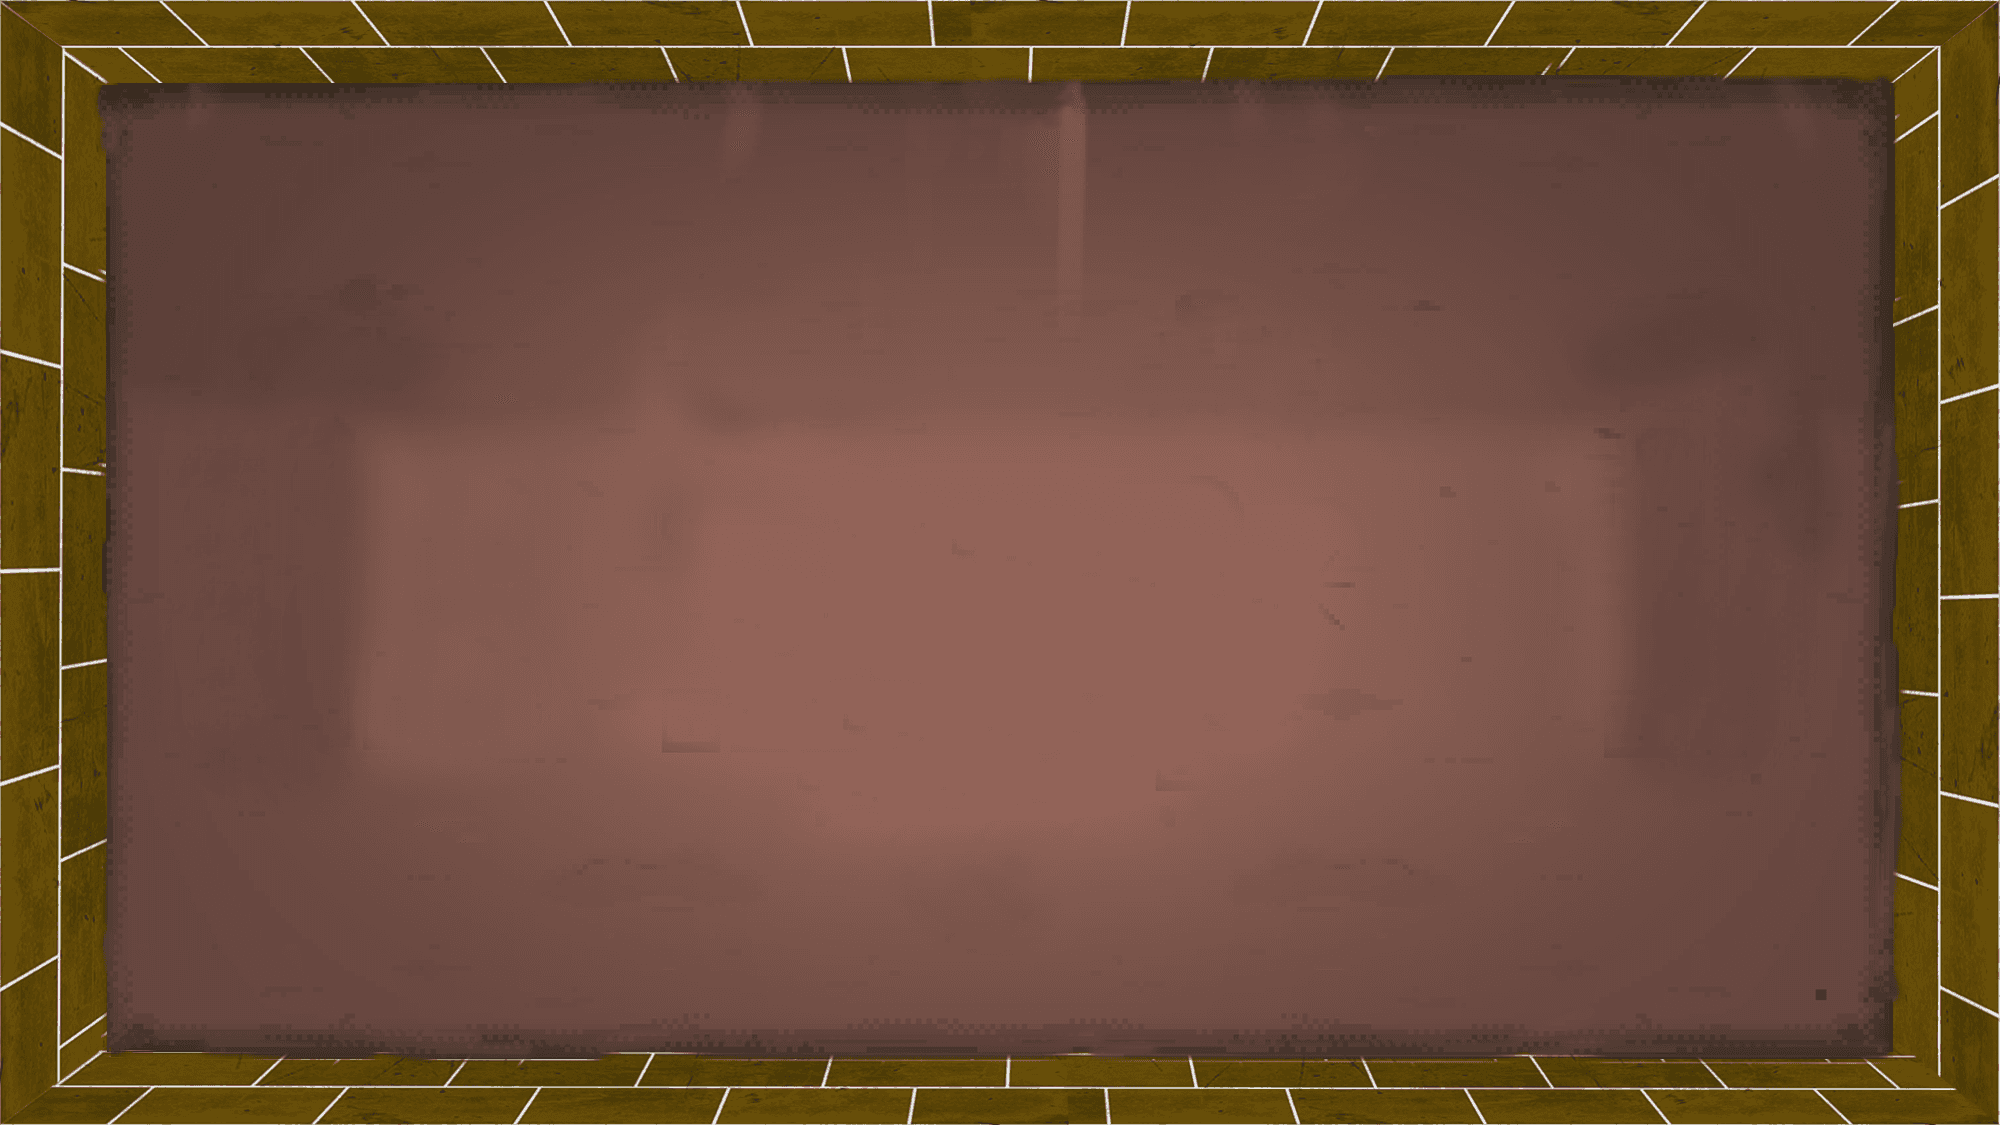
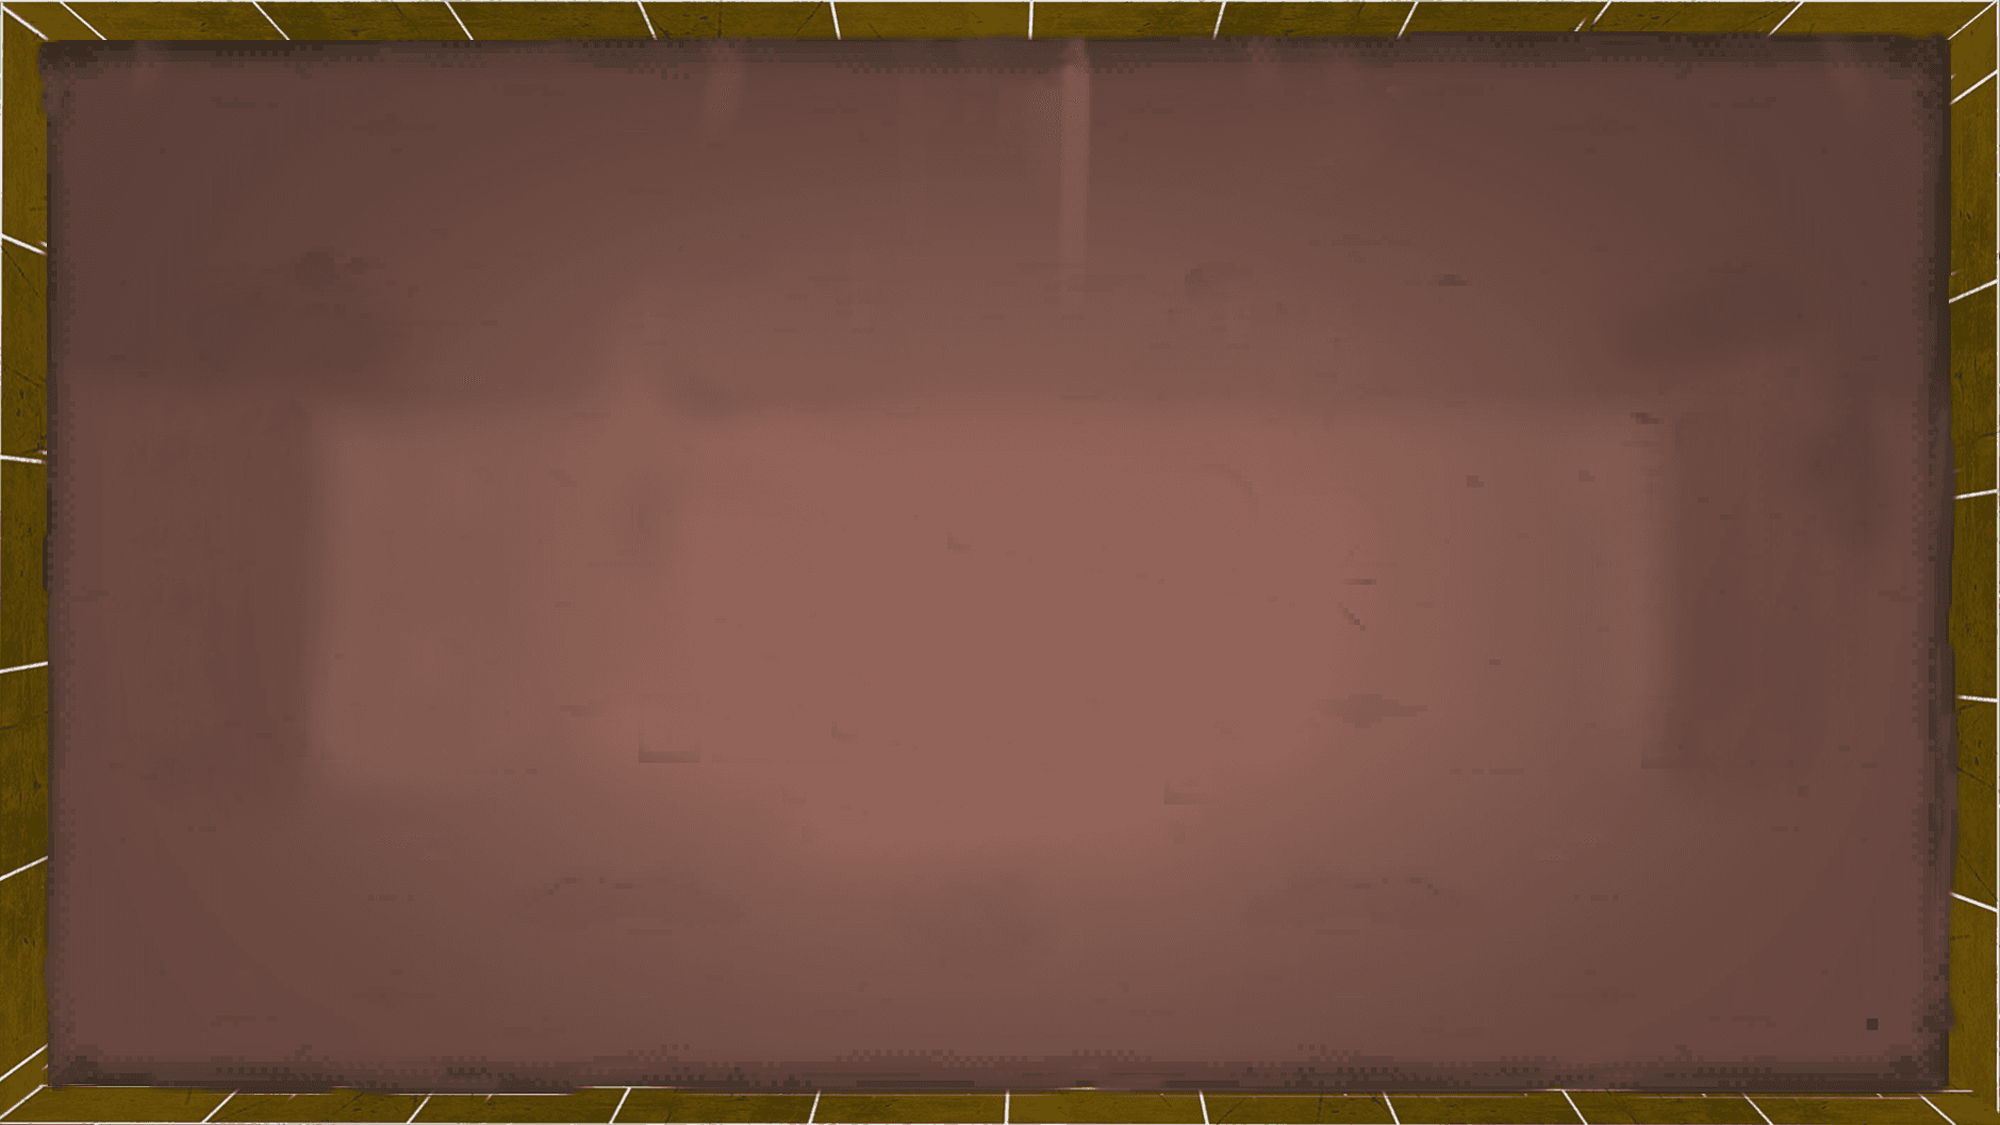
替换背景图片

Changed region(s): [[0.0, 0.0, 1.0, 1.0]]

diff --git a/src/core/entities/myself.ts b/src/core/entities/myself.ts
@@ -2,7 +2,7 @@
  * 玩家
  */
 import { baseSquare } from "./base"
-import { XYtest, adsorbent } from "../math"
+import { XYtest, adsorbent, noOut } from "../math"
 import { config } from "../config"
 import { Enemy } from "./enemy"
 import { onPressKey, player1 } from "../world"
@@ -104,7 +104,7 @@ class player extends baseSquare {
             onrun.c = false
             if (confirm("死了,复活or重开")) {
                 this.HP = player.MaxHP
-                this.MP =player.MaxMP
+                this.MP = player.MaxMP
                 this.alive = true
                 onPressKey.clear()
                 onrun.c = true
@@ -234,32 +234,22 @@ class player extends baseSquare {
         this.vy = vy
         this.x += vx
         this.y += vy
-        if (this.x - this.w / 2 - 108 <= 0) {
-            this.x = this.w / 2 + 108
-        }
-        if (this.x + this.w / 2 + 108 >= 2000) {
-            this.x = 2000 - this.w / 2 - 108
-        }
-        if (this.y - this.h / 2 - 85 <= 0) {
-            this.y = this.h / 2 + 85
-        }
-        if (this.y + this.h / 2 + 75 >= 1125) {
-            this.y = 1125 - this.h / 2 - 70
-        }
-
+        noOut(this)
         this.draw()
     }
     //移动端
     shootAllDirections(weapon: any, vx: number, vy: number) {
         if (this.MP > 0) {
-            var s = new weapon(this.ctx, this.x, this.y, 20, 20)
-            s.initvx = this.vx * player.ShootspeedLose
-            s.initvy = this.vy * player.ShootspeedLose
-            s.speedx = vx
-            s.speedy = vy
-            audio.bui.play()
-            player.shootingList.push(s)
-            console.log(1);
+            // player.throttle(() => {
+                var s = new weapon(this.ctx, this.x, this.y, 20, 20)
+                s.initvx = this.vx * player.ShootspeedLose
+                s.initvy = this.vy * player.ShootspeedLose
+                s.speedx = vx
+                s.speedy = vy
+                audio.bui.play()
+                player.shootingList.push(s)
+            // }, player.ShootInterval / weapon.modify)
+
         } else {//没蓝提醒
             player.throttle(() => {
                 audio.noshoot.play()
@@ -380,31 +370,7 @@ class player extends baseSquare {
                 i.give(player1)
                 audio.get.play()
             })
-            XYtest(Wall.walllist, this).forEach(e => {//检测墙体
-
-
-                if ((Math.abs(e.x - this.x) / (e.y - this.y)) >= e.w / e.h) {
-                    if (this.x > e.x && this.x - this.w / 2 - e.w / 2 < e.x) {
-                        this.x = e.x + e.w / 2 + this.w / 2 + 1
-                        return
-                    }
-                    if (this.x < e.x && this.x + this.w / 2 + e.w / 2 > e.x) {
-                        this.x = e.x - e.w / 2 - this.w / 2 - 1
-                        return
-                    }
-                } else {
-
-                    if (this.y > e.y && this.y - this.h / 2 - e.h / 2 < e.y) {
-                        this.y = e.y + e.h / 2 + this.h / 2 + 1
-                        return
-                    }
-                    if (this.y < e.y && this.y + this.h / 2 + e.h / 2 > e.y) {
-                        this.y = e.y - e.h / 2 - this.h / 2 - 1
-                        return
-                    }
-                }
-
-            })
+            Wall.checkWall(this)
         };
     }
     /**

diff --git a/src/core/entities/enemy.ts b/src/core/entities/enemy.ts
@@ -117,33 +117,9 @@ class Zombie extends baseSquare {
             super.showName(names)
             this.showRealTimeHP()
             this.guardingCircle()
-            this.checkWall()
+            Wall.checkWall(this)
         }
         return this
-    }
-    checkWall() {
-        XYtest(Wall.walllist, this).forEach(e => {
-            if ((Math.abs(e.x - this.x) / (e.y - this.y)) >= e.w / e.h) {
-                if (this.x > e.x && this.x - this.w / 2 - e.w / 2 < e.x) {
-                    this.x = e.x + e.w / 2 + this.w / 2 + 1
-                    return
-                }
-                if (this.x < e.x && this.x + this.w / 2 + e.w / 2 > e.x) {
-                    this.x = e.x - e.w / 2 - this.w / 2 - 1
-                    return
-                }
-            } else {
-
-                if (this.y > e.y && this.y - this.h / 2 - e.h / 2 < e.y) {
-                    this.y = e.y + e.h / 2 + this.h / 2 + 1
-                    return
-                }
-                if (this.y < e.y && this.y + this.h / 2 + e.h / 2 > e.y) {
-                    this.y = e.y - e.h / 2 - this.h / 2 - 1
-                    return
-                }
-            }
-        })
     }
     showRealTimeHP() {
         var HPpercent
@@ -370,8 +346,8 @@ class Enemy {
     static list: Zombie[] = []
     static init() {
         for (let i = 0; i < 5; i++) {
-            let d: Zombie = new Zombie(ctx, 100 + Math.floor(Math.random() * (canvas.width - 300)),
-                100 + Math.floor(Math.random() * (canvas.height - 300)))
+            let d: Zombie = new Zombie(ctx, 100 + Math.floor(Math.random() * (canvas.width )),
+                100 + Math.floor(Math.random() * (canvas.height )))
             Enemy.list.push(d)
         }
 

diff --git a/src/components/ui.vue b/src/components/ui.vue
@@ -20,6 +20,7 @@
                         操作方式：<br>
                         移动： a w s d<br>
                         射击： ↑ ↓ ← →<br>
+                        加速： shift<br>
                         菜单： ESC<br>
                     </div>
                 </div>
@@ -93,7 +94,7 @@
                         <br>
                         <button @click="Enemy.init()">怪物初始化</button>
                         <br>
-                        <br>    
+                        <br>
 
                     </div>
                 </div>
@@ -169,22 +170,22 @@ watch(wz, (e) => {
 
 #menu {
     display: flex;
-    margin: 2em;
-    margin-top: 40px;
+    margin: 1em;
 }
 
 #menu_left {
     display: flex;
     flex-direction: column;
     flex-wrap: nowrap;
-    height: 100%;
-    width: 200px;
-
+    height: 100vh;
+    width: 150px;
+    overflow-y: scroll;
+    overflow-x: hidden;
+    border-right: rgba(224, 223, 223, 0.661) solid 1px;
 }
-
 #menu_left>div {
     border-left: rgba(224, 223, 223, 0) solid 2px;
-    border-right: rgba(224, 223, 223, 0.661) solid .5px;
+
     cursor: pointer;
     padding: 20px 0px 20px;
     width: 100%;
@@ -198,7 +199,7 @@ watch(wz, (e) => {
 }
 
 #menu_content {
-    margin: 5px;
+    /* margin: 5px; */
     height: 100%;
     width: 100%;
     font-style: normal;
@@ -213,11 +214,11 @@ watch(wz, (e) => {
 
 hr {
     border-width: 0.5px;
+    margin: 0;
 }
 
 h2 {
     margin: 0;
-    margin-top: -20px;
     text-align: center;
 }
 

diff --git a/src/core/entities/base.ts b/src/core/entities/base.ts
@@ -1,6 +1,8 @@
 import { canvas } from "../world"
 import { config } from "../config"
 import { imgload } from "../utils/imgloader"
+import { Wall } from "./wall"
+import { noOut } from "../math"
 /**
  * 位置基类
  */
@@ -128,18 +130,7 @@ class baseSquare extends Position {
     move(vx: number, vy: number) {
         this.x += vx
         this.y += vy
-        if (this.x - this.w / 2 - 108 <= 0) {
-            this.x = this.w / 2 + 108
-        }
-        if (this.x + this.w / 2 + 108 >= 2000) {
-            this.x = 2000 - this.w / 2 - 108
-        }
-        if (this.y - this.h / 2 - 85 <= 0) {
-            this.y = this.h / 2 + 85
-        }
-        if (this.y + this.h / 2 + 75 >= 1125) {
-            this.y = 1125 - this.h / 2 - 70
-        }
+        noOut(this)
         this.draw()
     }
     /**
@@ -160,18 +151,7 @@ class baseSquare extends Position {
                 this.x = tox
                 this.y = toy
             }
-            if (this.x - this.w / 2 - 108 <= 0) {
-                this.x = this.w / 2 + 108
-            }
-            if (this.x + this.w / 2 + 108 >= 2000) {
-                this.x = 2000 - this.w / 2 - 108
-            }
-            if (this.y - this.h / 2 - 85 <= 0) {
-                this.y = this.h / 2 + 85
-            }
-            if (this.y + this.h / 2 + 75 >= 1125) {
-                this.y = 1125 - this.h / 2 - 70
-            }
+            noOut(this)
         }
     }
     isAlive() {

diff --git a/src/core/entities/wall.ts b/src/core/entities/wall.ts
@@ -1,6 +1,6 @@
 import { baseSquare } from "./base";
 import { ctx } from '../world'
-import { lineIntersect, P2Pdistance } from "../math";
+import { lineIntersect, P2Pdistance, XYtest } from "../math";
 
 class Wall extends baseSquare {
     v: boolean;
@@ -34,6 +34,33 @@ class Wall extends baseSquare {
     static drawall() {
         Wall.walllist.forEach((e) => {
             e.draw()
+        })
+    }
+    static checkWall<T extends baseSquare>(obj: T) {
+        XYtest(Wall.walllist, obj).forEach(e => {
+            //@ts-ignore
+            if (e.v) {
+                if (obj.x > e.x && obj.x - obj.w / 2 - e.w / 2 < e.x) {
+                    obj.x = e.x + e.w / 2 + obj.w / 2 + 1//右
+                    return
+                }
+                if (obj.x < e.x && obj.x + obj.w / 2 + e.w / 2 > e.x) {
+                    obj.x = e.x - e.w / 2 - obj.w / 2 - 1//左
+                    return
+                }
+            } else {
+                if (obj.y > e.y && obj.y - obj.h / 2 - e.h / 2 < e.y) {
+                    obj.y = e.y + e.h / 2 + obj.h / 2 + 1//下
+                    return
+                }
+                if (obj.y < e.y && obj.y + obj.h / 2 + e.h / 2 > e.y) {
+                    obj.y = e.y - e.h / 2 - obj.h / 2 - 1//上
+                    return
+                }
+            }
+
+
+
         })
     }
     /**

diff --git a/src/core/math.ts b/src/core/math.ts
@@ -145,4 +145,20 @@ function dijkstra(adjMatrix: any[][], start: any, end: any) {
     return [path, distance[end]];
 }
 
-export { Xtest, Ytest, XYtest, YXtest, P2Pdistance, adsorbent, dijkstra, lineIntersect };
+function noOut<T extends baseSquare>(obj: T) {
+    var ho = 30
+    if (obj.x - obj.w / 2 - ho <= 0) {
+        obj.x = obj.w / 2 + ho
+    }
+    if (obj.x + obj.w / 2 + ho >= 2000) {
+        obj.x = 2000 - obj.w / 2 - ho
+    }
+    if (obj.y - obj.h / 2 - ho <= 0) {
+        obj.y = obj.h / 2 + ho
+    }
+    if (obj.y + obj.h / 2 + ho >= 1125) {
+        obj.y = 1125 - obj.h / 2 - ho
+    }
+}
+
+export { XYtest, YXtest, P2Pdistance, adsorbent, dijkstra, lineIntersect, noOut };

diff --git a/src/components/controler.vue b/src/components/controler.vue
@@ -22,7 +22,6 @@ const showPhoneControlers = () => {
         dynamicPage: true,
         mode: 'static',
         position: { right: '15%', bottom: '20%' },
-        color: '#74ecff'
     });
     rightControler.on("move", (evt, nipple) => {
         // console.log(nipple);
@@ -40,7 +39,6 @@ const showPhoneControlers = () => {
         dynamicPage: true,
         mode: 'static',
         position: { left: '15%', bottom: '20%' },
-        color: '#74ecff',
     });
     leftControler.on("move", (evt, nipple) => {
         var forc = 1

diff --git a/src/core/world.ts b/src/core/world.ts
@@ -15,7 +15,7 @@ import { Effects } from "./effects";
 export var onPressKey = new Set()//处于按下状态的按键
 //对象创建
 
-const player1 = new player(ctx, 150, 150)
+const player1 = new player(ctx, 150, 550)
 
 Wall.init()
 Enemy.init()

diff --git a/src/components/view.vue b/src/components/view.vue
@@ -35,6 +35,7 @@ onMounted(() => {
     z-index: 10000;
     background-color: black;
     position: fixed;
+    top: 0;
     width: 100%;
     height: 100%;
 }

diff --git a/vite.config.ts b/vite.config.ts
@@ -1,3 +1,4 @@
+// @ts-nocheck
 import { defineConfig } from 'vite'
 import vue from '@vitejs/plugin-vue'
 import path from 'path';
